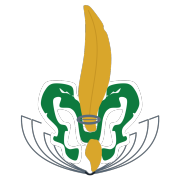
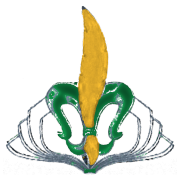
Interim: revert emblem to previous version while redraw is reworked

Changed region(s): [[0.0278, 0.0278, 0.9722, 0.9722]]

diff --git a/index.html b/index.html
@@ -4,9 +4,9 @@
 <meta charset="UTF-8">
 <meta name="viewport" content="width=device-width, initial-scale=1, viewport-fit=cover">
 <title>טבלת צדק</title>
-<link rel="icon" type="image/png" sizes="32x32" href="favicon-32.png?v=5">
-<link rel="icon" type="image/png" sizes="192x192" href="icon-192.png?v=5">
-<link rel="apple-touch-icon" href="apple-touch-icon.png?v=5">
+<link rel="icon" type="image/png" sizes="32x32" href="favicon-32.png?v=6">
+<link rel="icon" type="image/png" sizes="192x192" href="icon-192.png?v=6">
+<link rel="apple-touch-icon" href="apple-touch-icon.png?v=6">
 <link rel="preconnect" href="https://fonts.googleapis.com">
 <link rel="preconnect" href="https://fonts.gstatic.com" crossorigin>
 <link href="https://fonts.googleapis.com/css2?family=Rubik:wght@400;500;600;700;800&display=swap" rel="stylesheet">
@@ -104,7 +104,7 @@
 
   <header class="card">
     <a class="logo-link" href="https://etrog-lv-tama.github.io/" aria-label="סמל קורס אתרוג ל״ו · לדף הבית של המגמה">
-      <img src="logo.png?v=5" alt="סמל קורס אתרוג ל״ו">
+      <img src="logo.png?v=6" alt="סמל קורס אתרוג ל״ו">
     </a>
     <h1>טבלת צדק</h1>
     <div class="sub">מחזור ל״ו · מי עשה, מי משובץ, וכמה יוצא לכל אחד</div>
